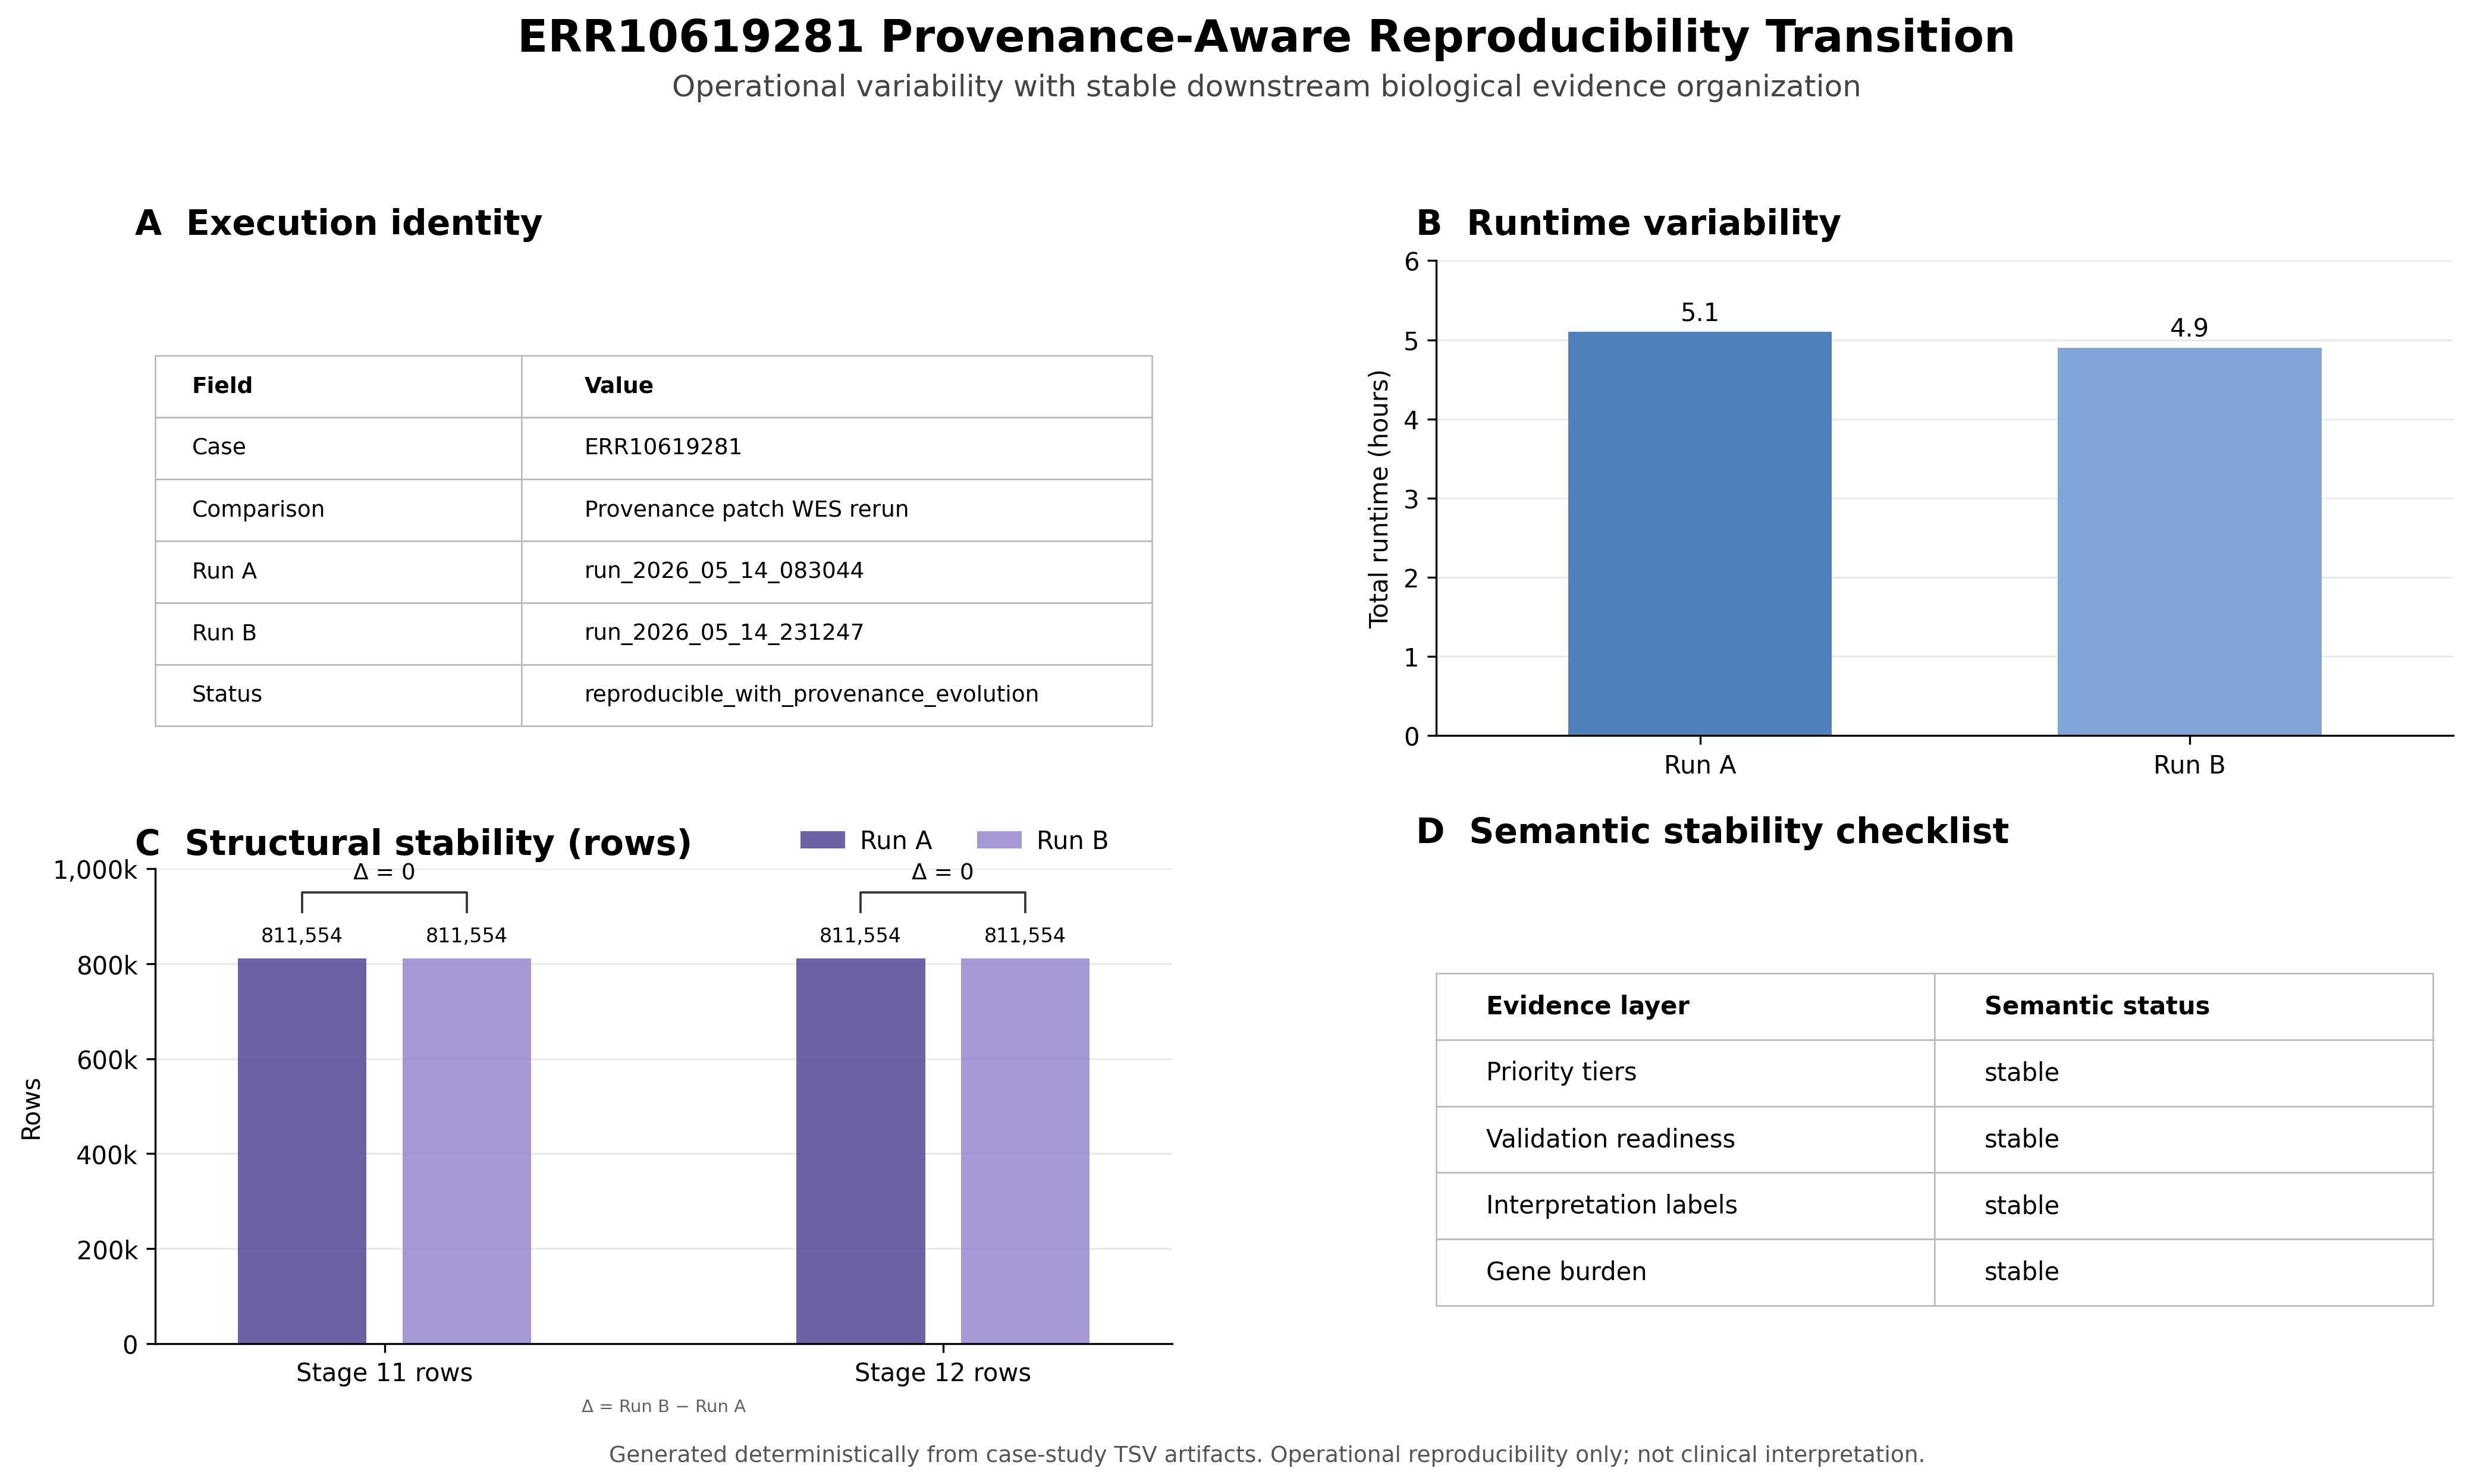
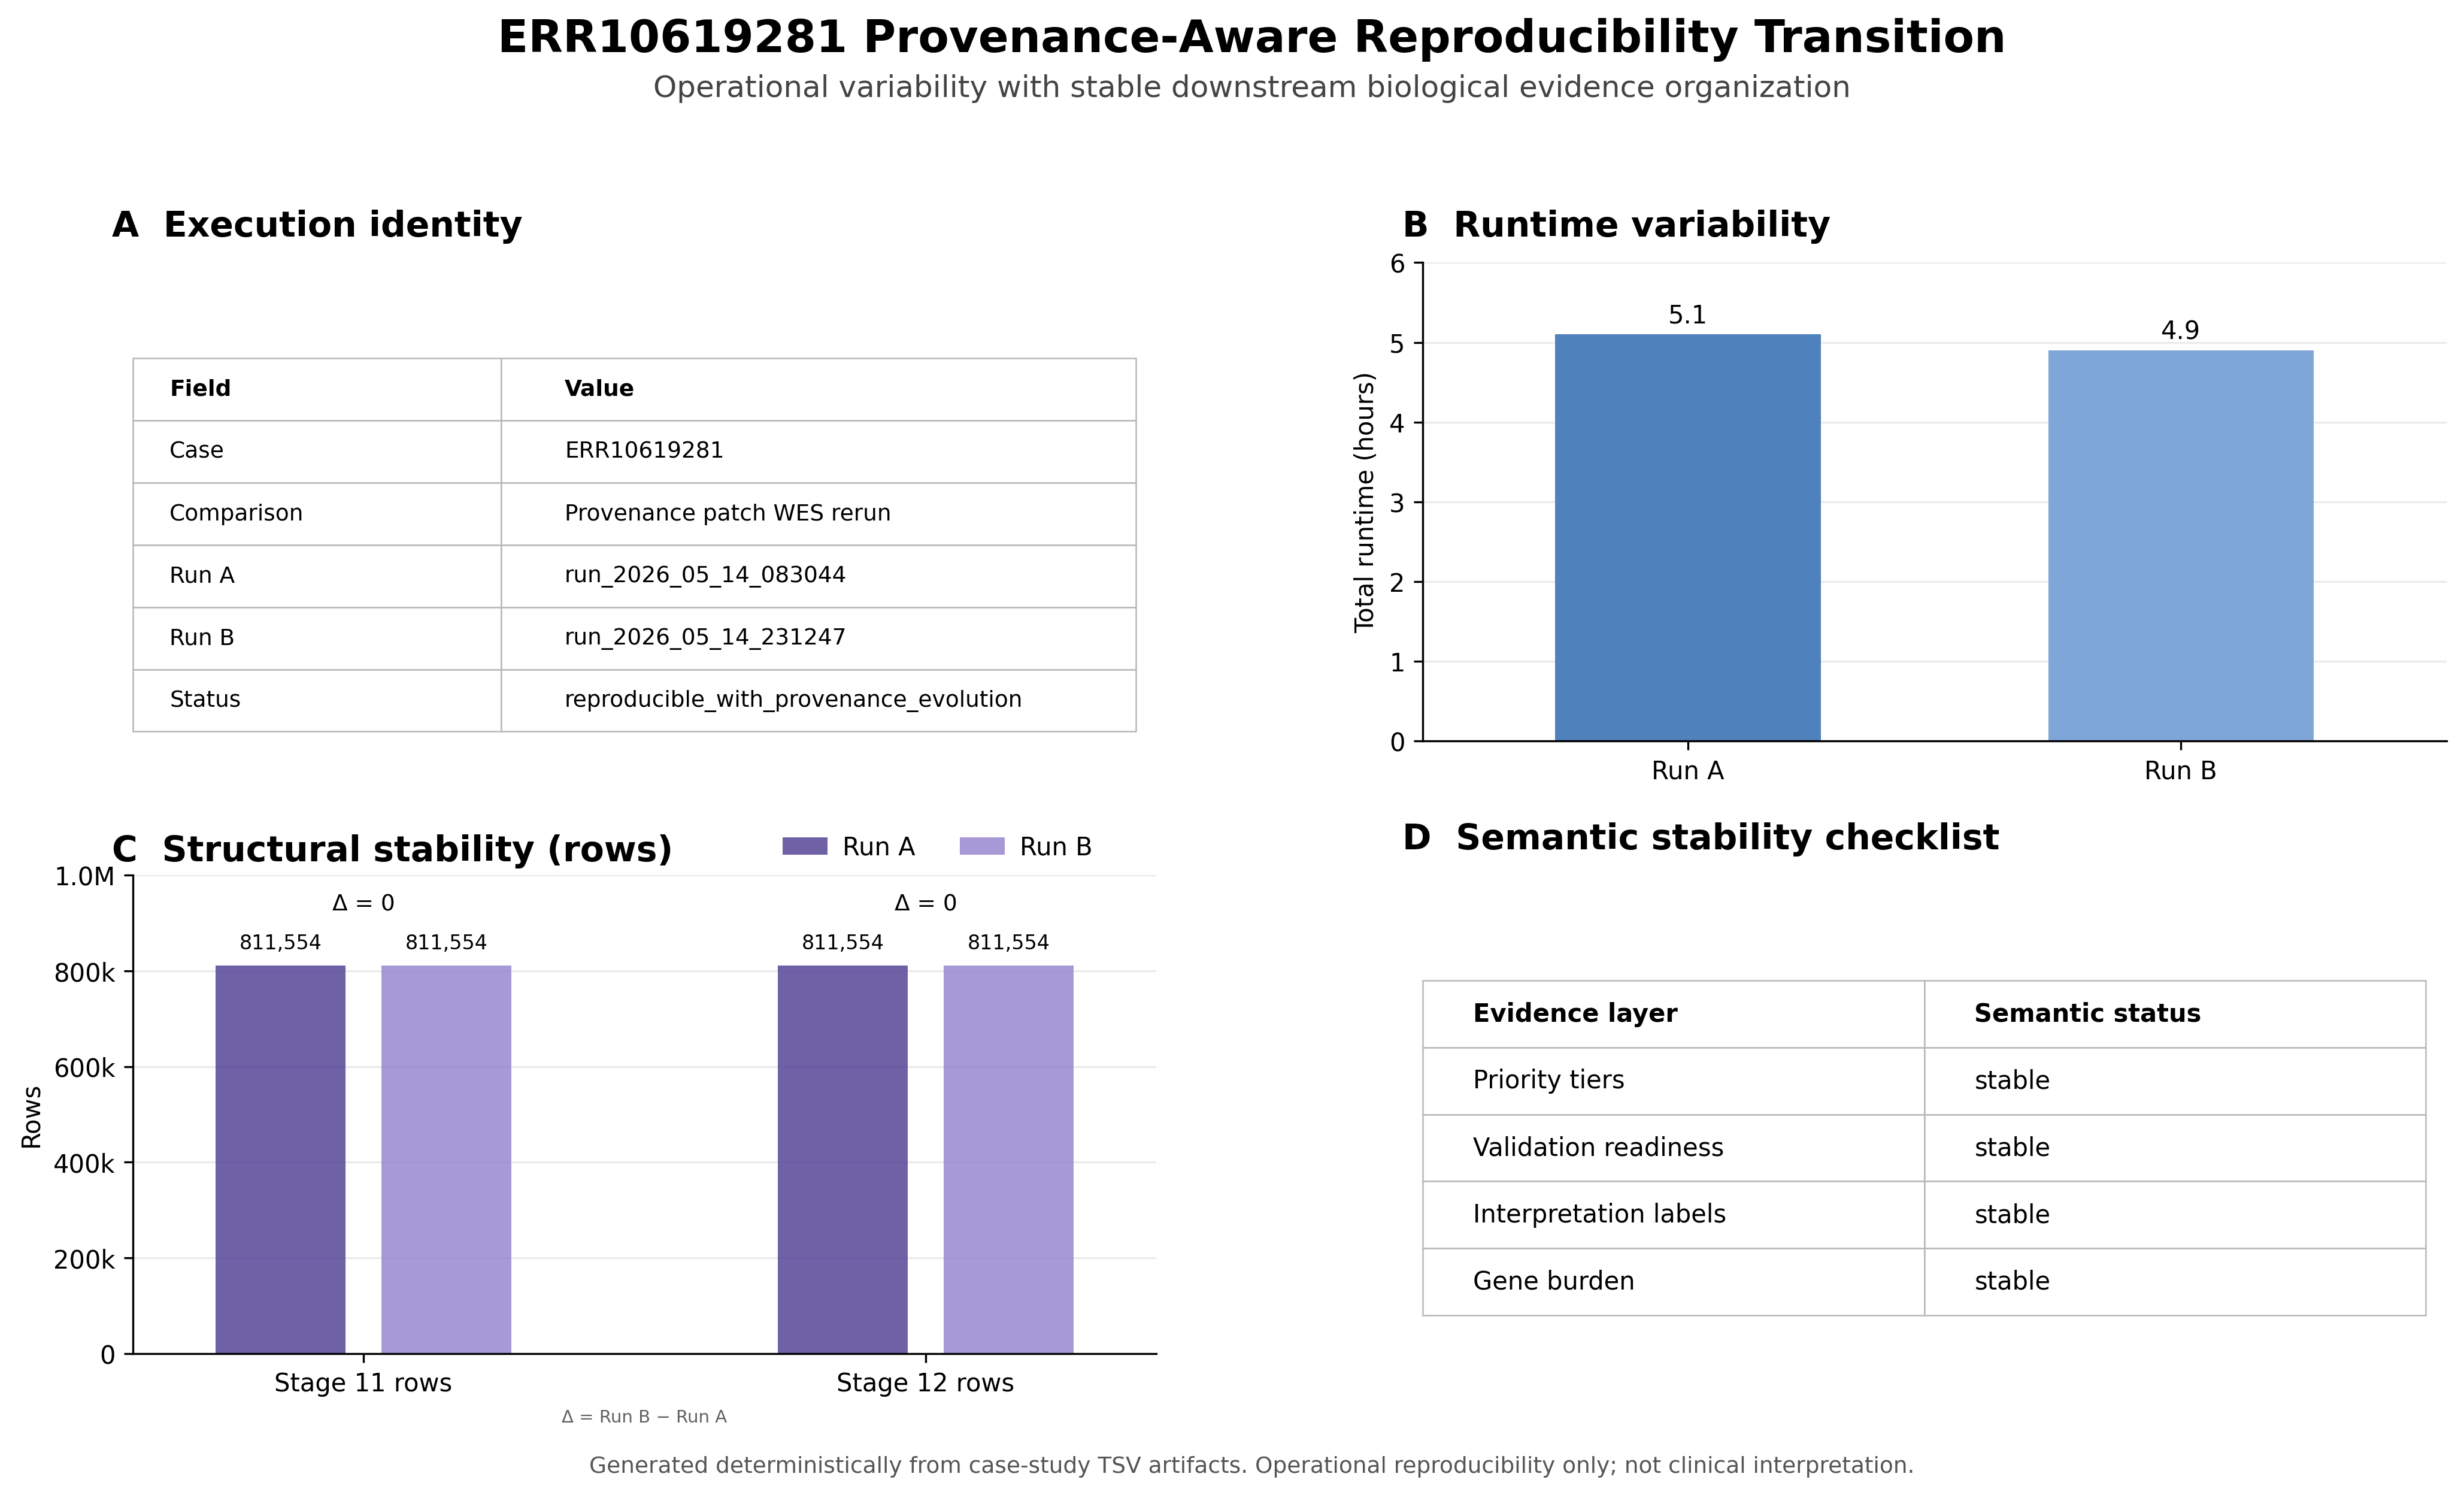
figures(vap): lock reusable F1 reproducibility summaries

diff --git a/scripts/figures/generate_case_study_f1_reproducibility_summary.py b/scripts/figures/generate_case_study_f1_reproducibility_summary.py
@@ -24,6 +24,22 @@ def write_source_tsv(path,rows):
         w.writeheader()
         for r in rows:w.writerow({k:r.get(k,"NA") for k in fields})
 
+def runtime_ceiling(hours):
+    if hours <= 6:return 6
+    if hours <= 30:return 30
+    if hours <= 60:return 60
+    return ((int(hours)//25)+2)*25
+
+def row_count_ceiling(rows):
+    if rows <= 1_000_000:return 1_000_000
+    if rows <= 5_000_000:return 6_000_000
+    return ((int(rows)//1_000_000)+2)*1_000_000
+
+def count_formatter(x,pos):
+    if x==0:return "0"
+    if x>=1_000_000:return f"{x/1_000_000:.1f}M"
+    return f"{int(x/1000):,}k"
+
 def main():
     ap=argparse.ArgumentParser()
     ap.add_argument("--config",required=True)
@@ -130,7 +146,8 @@ def main():
     ax2.set_xticks(runtime_x)
     ax2.set_xticklabels(["Run A","Run B"])
     ax2.set_ylabel("Total runtime (hours)")
-    ax2.set_ylim(0,6)
+    runtime_ymax=runtime_ceiling(max(runtime_vals))
+    ax2.set_ylim(0,runtime_ymax)
     ax2.text(-0.02,1.04,"B  Runtime variability",transform=ax2.transAxes,
          ha="left",va="bottom",fontsize=14,fontweight="bold")
     ax2.grid(axis="y",alpha=0.25)
@@ -166,8 +183,9 @@ def main():
     ax3.set_xticks(x)
     ax3.set_xticklabels(struct_metrics)
     ax3.set_ylabel("Rows")
-    ax3.set_ylim(0,1000000)
-    ax3.yaxis.set_major_formatter(FuncFormatter(lambda x,pos: "0" if x==0 else f"{int(x/1000):,}k"))
+    struct_ymax=row_count_ceiling(max(a_vals+b_vals))
+    ax3.set_ylim(0,struct_ymax)
+    ax3.yaxis.set_major_formatter(FuncFormatter(count_formatter))
     ax3.text(-0.02,1.015,"C  Structural stability (rows)",transform=ax3.transAxes,
          ha="left",va="bottom",fontsize=14,fontweight="bold")
     ax3.grid(axis="y",alpha=0.25)
@@ -178,19 +196,12 @@ def main():
     for i,a,b,d in zip(x,a_vals,b_vals,deltas):
         left=i-width/2-gap
         right=i+width/2+gap
-        bracket_y=max(a,b)*1.17
-        stem_y=max(a,b)*1.12
-
-        ax3.text(left,a+25000,f"{a:,}",ha="center",va="bottom",fontsize=8)
-        ax3.text(right,b+25000,f"{b:,}",ha="center",va="bottom",fontsize=8)
-
-        ax3.plot(
-            [left,left,right,right],
-            [stem_y,bracket_y,bracket_y,stem_y],
-            color="#333333",
-            linewidth=0.9
-        )
-        ax3.text(i,bracket_y+18000,f"Δ = {d:,}",ha="center",va="bottom",fontsize=9)
+        offset=struct_ymax*0.025
+        bracket_y=max(a,b)+struct_ymax*0.08
+        stem_y=max(a,b)+struct_ymax*0.05
+        ax3.text(i,bracket_y+offset,f"Δ = {d:,}",ha="center",va="bottom",fontsize=9)        
+        ax3.text(left,a+struct_ymax*0.025,f"{a:,}",ha="center",va="bottom",fontsize=8)
+        ax3.text(right,b+struct_ymax*0.025,f"{b:,}",ha="center",va="bottom",fontsize=8)        
 
     ax3.legend(
         frameon=False,